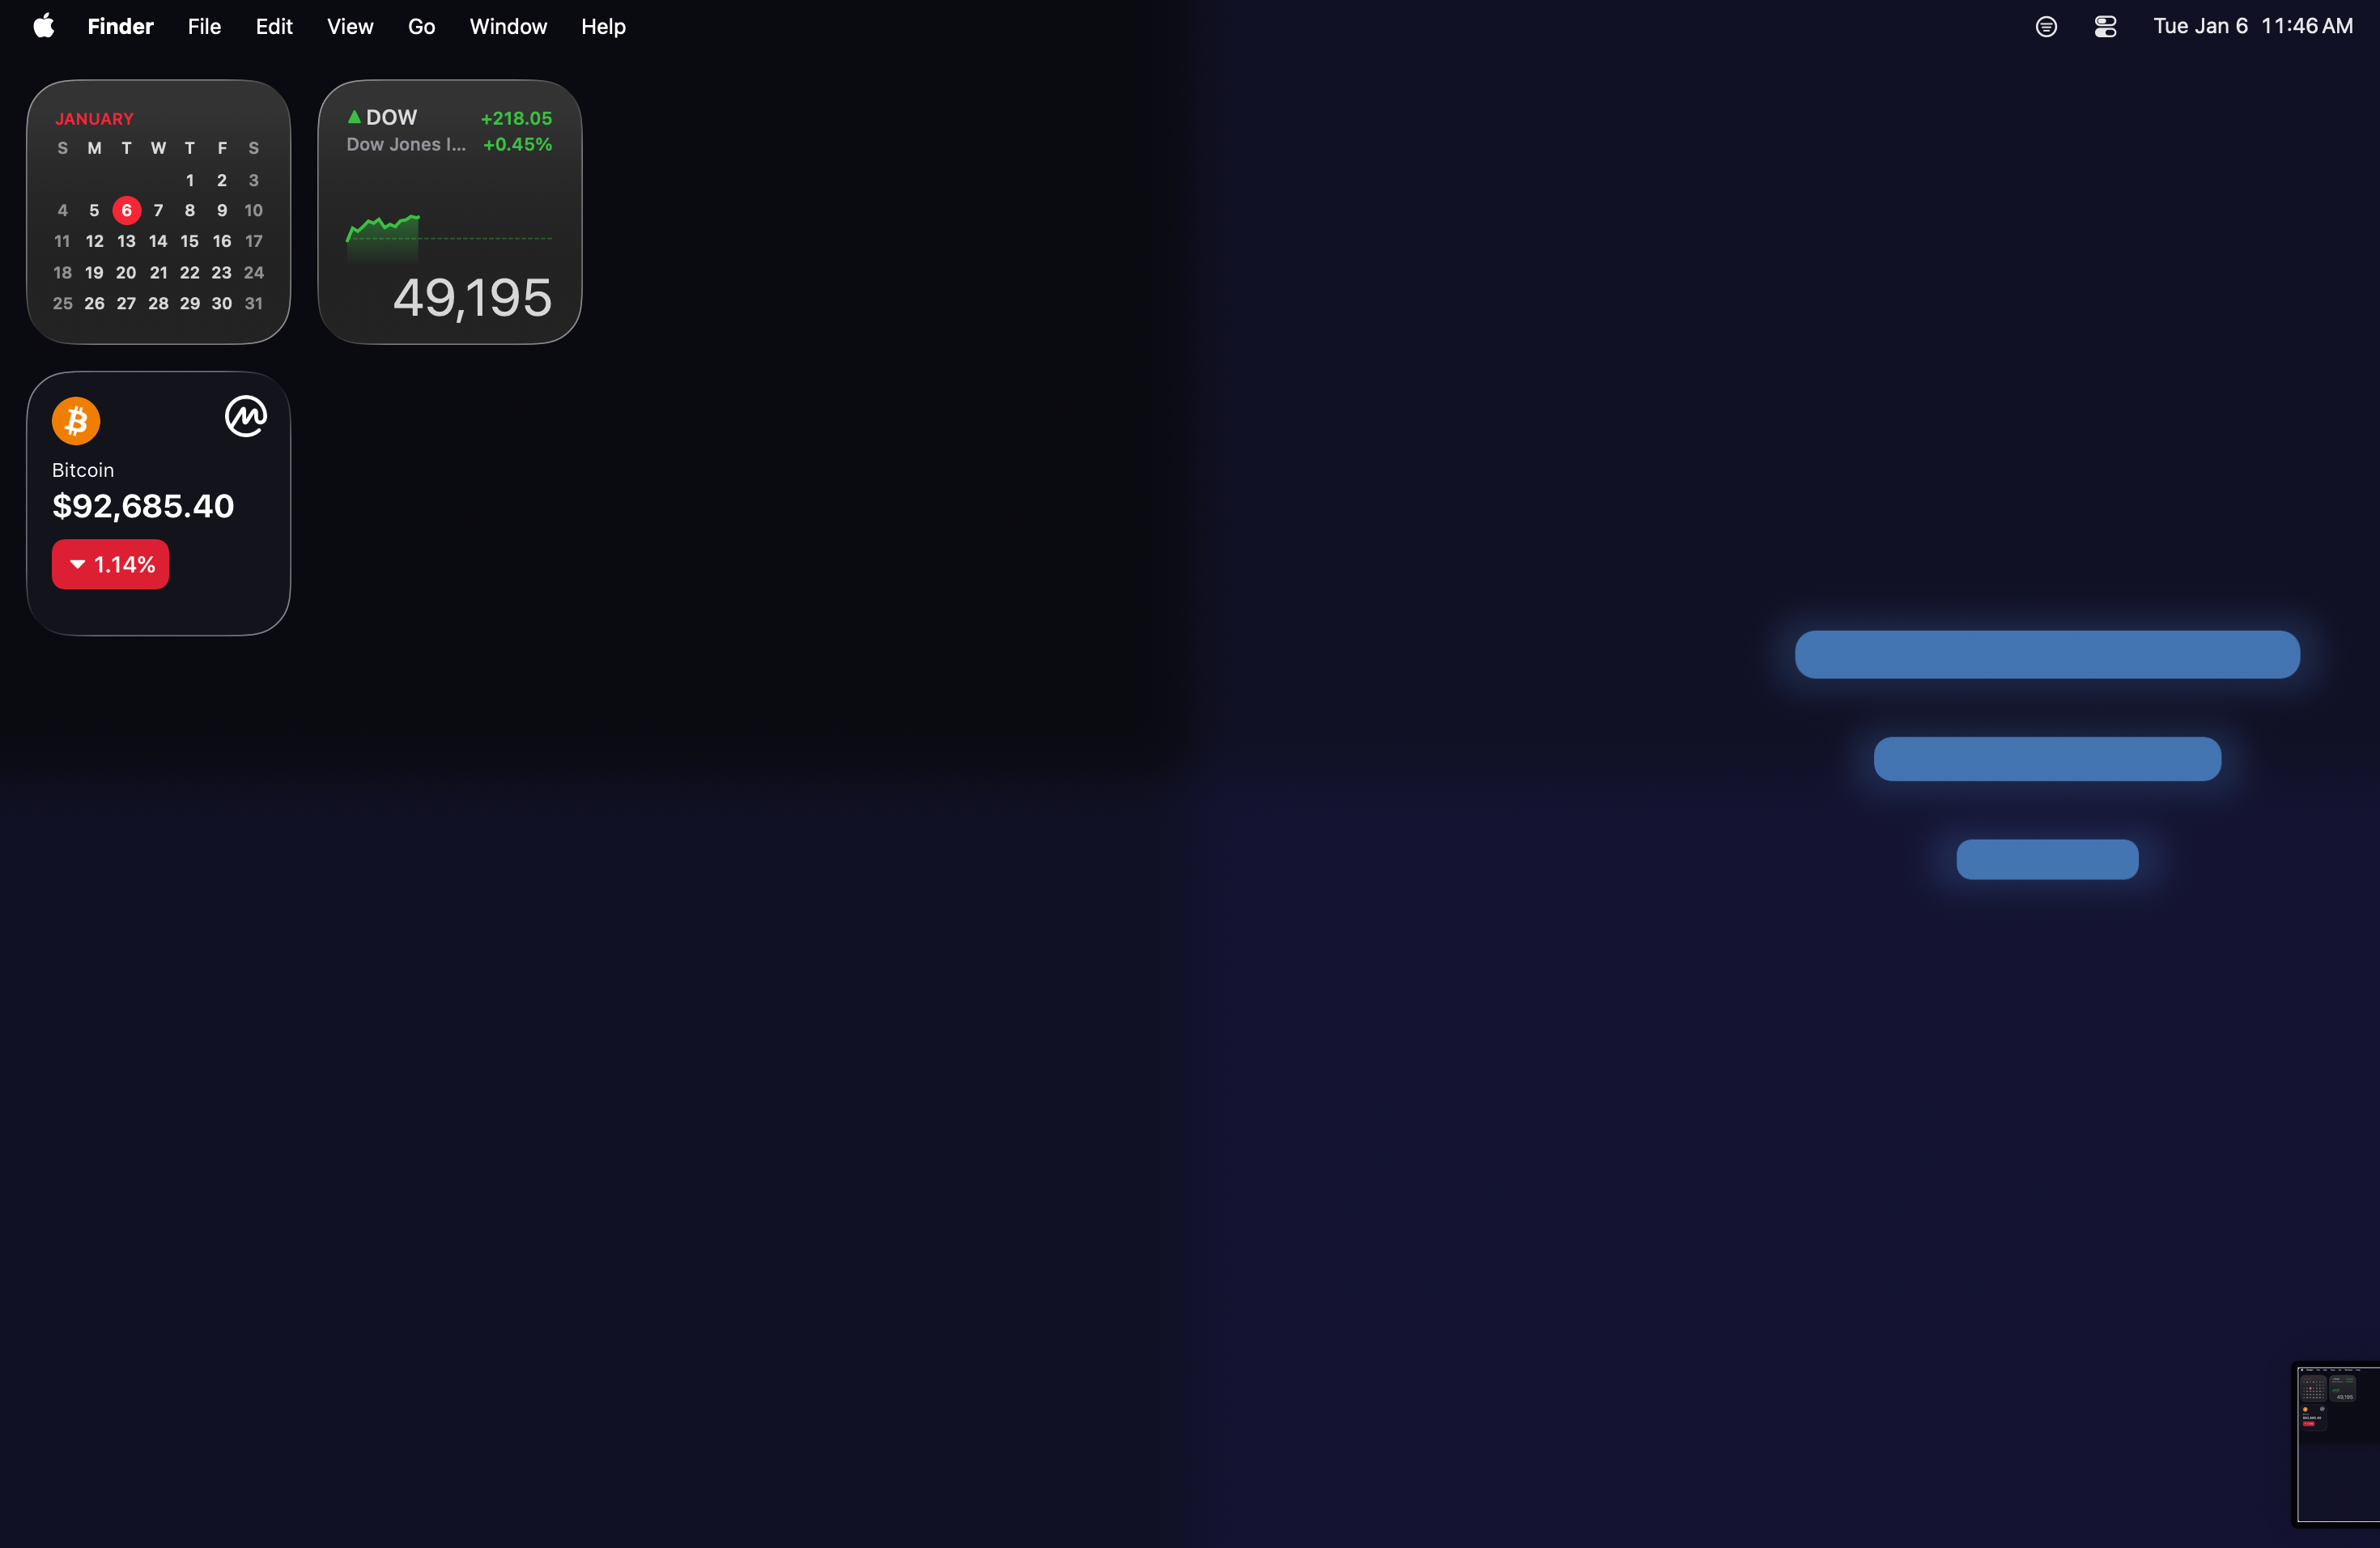
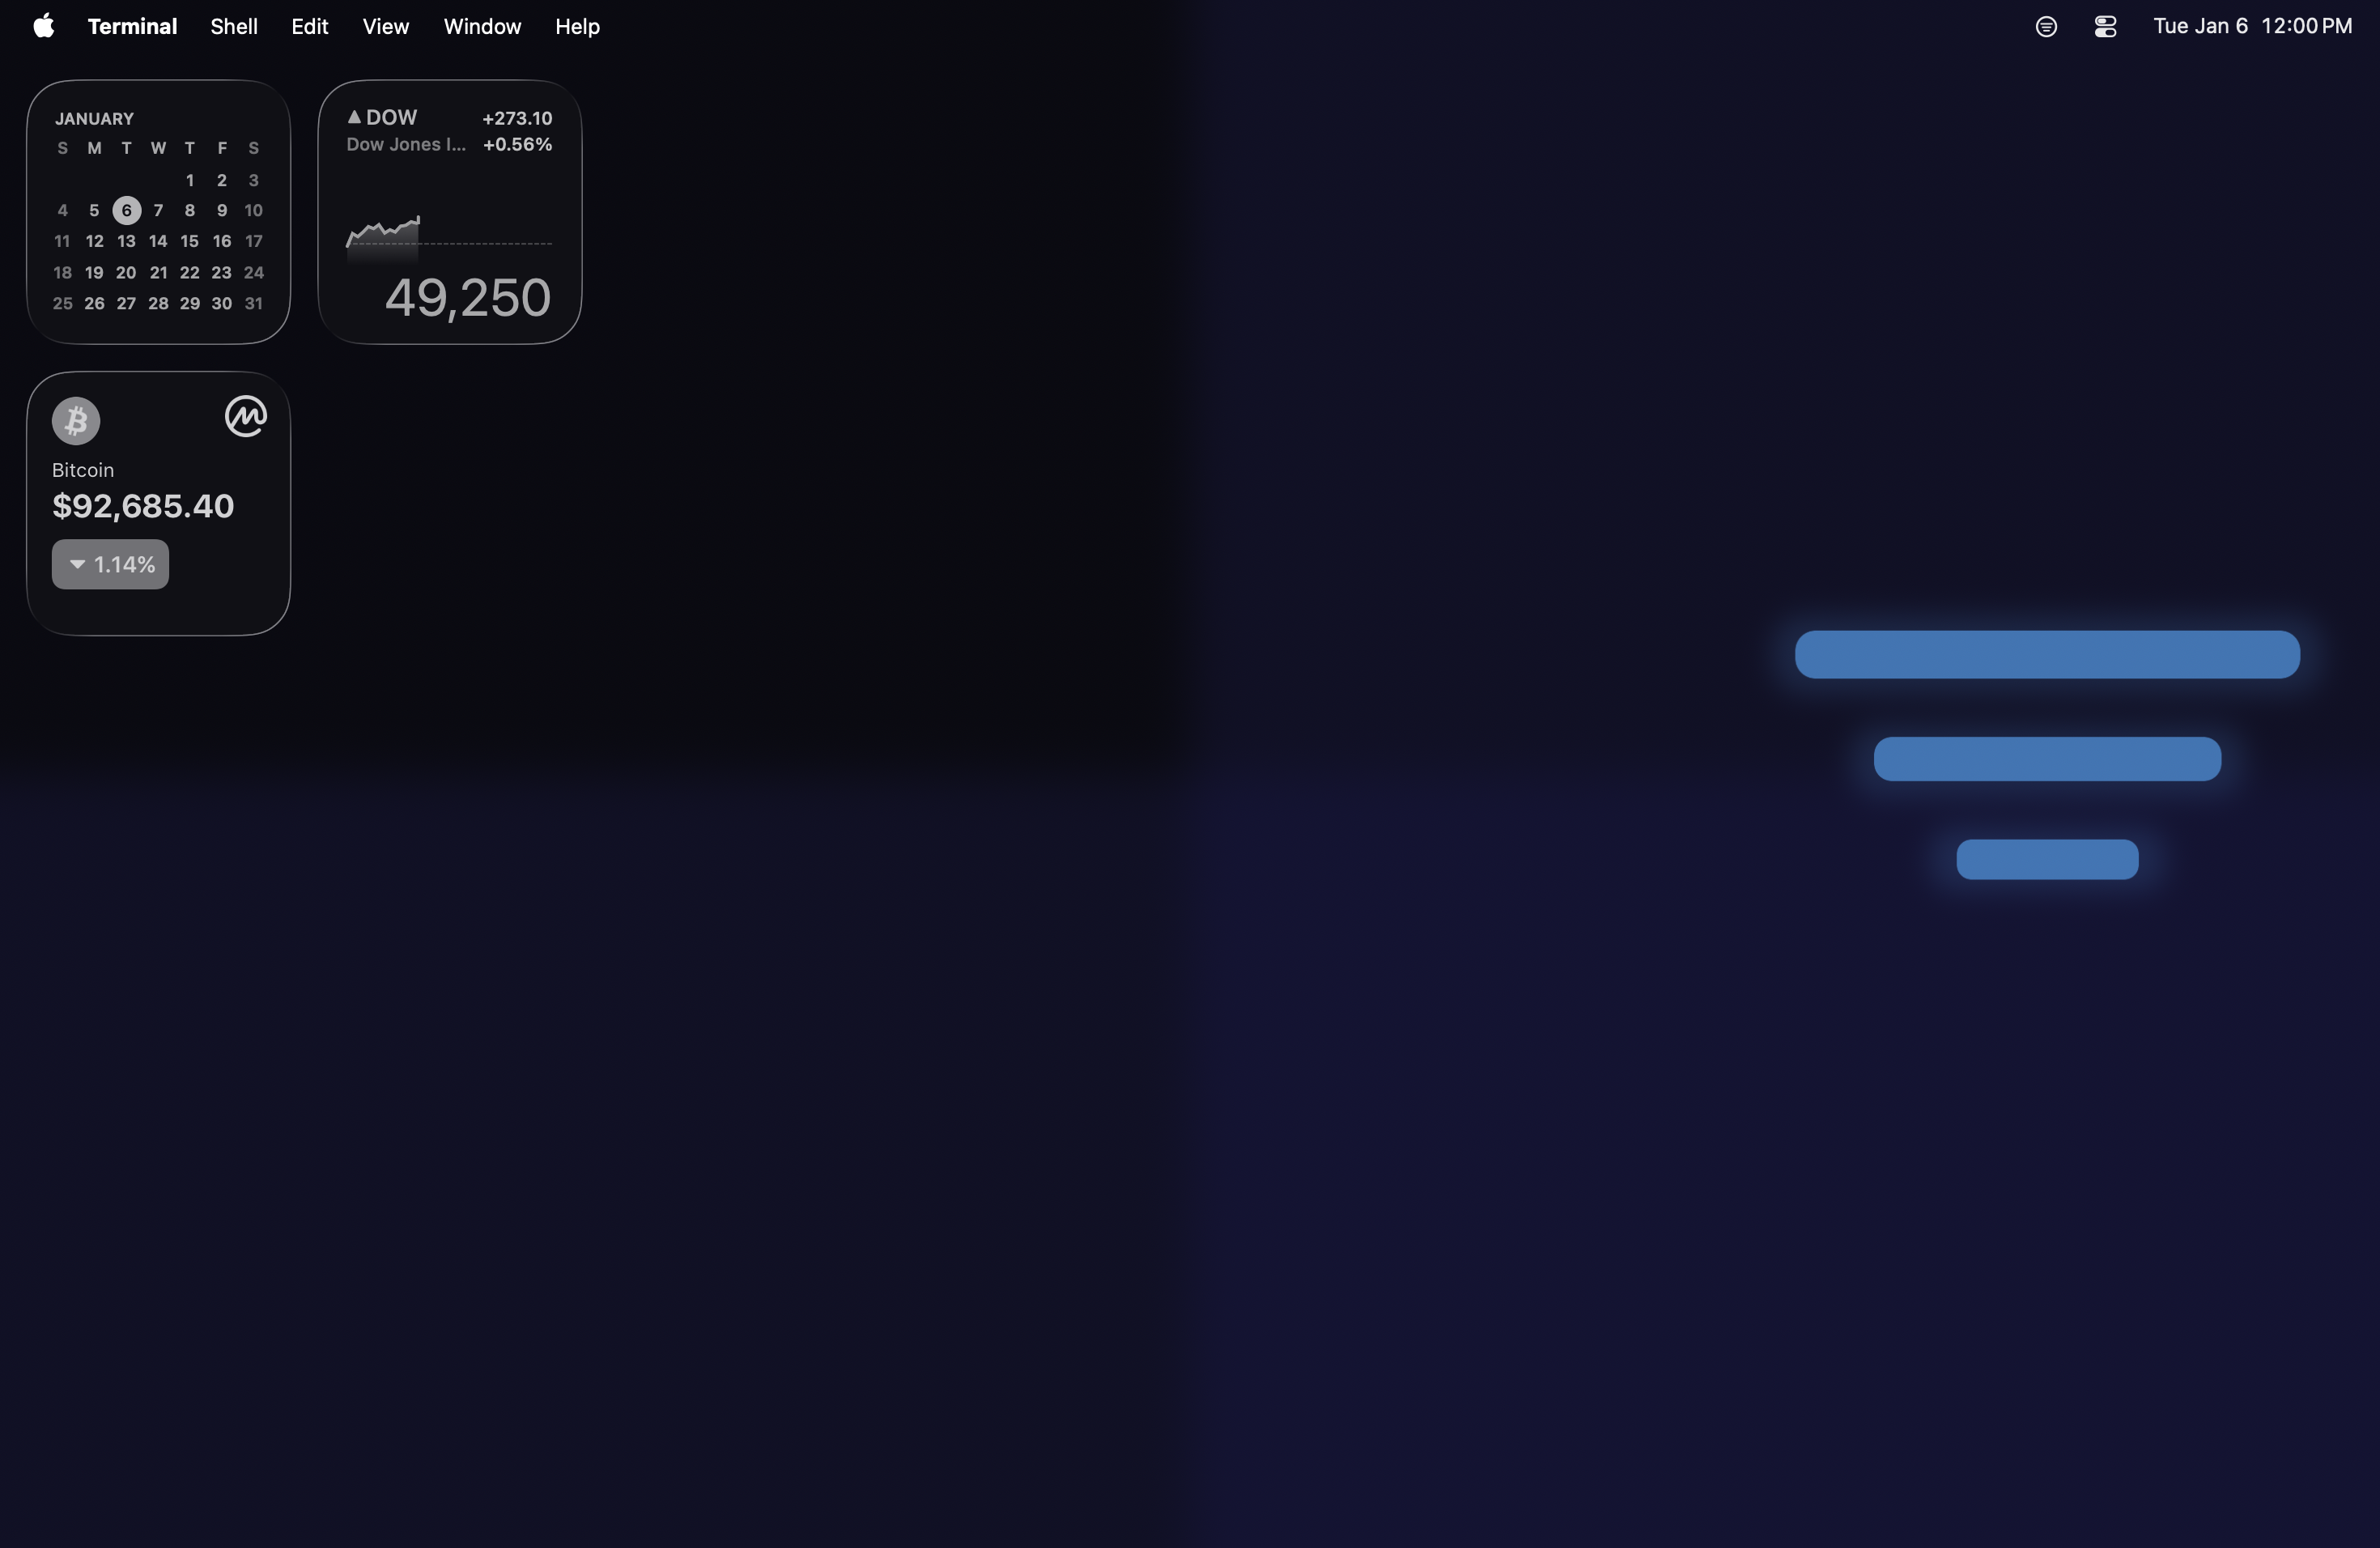
docs: Add before/after screenshots and Homebrew note
- Add screenshot-2.png showing clean menu bar (after)
- Add settings-about.png showing privacy badge
- Update Homebrew line encouraging stars to help approval

🤖 Generated with [Claude Code](https://claude.com/claude-code)

diff --git a/README.md b/README.md
@@ -18,7 +18,7 @@ Free. Private. No account needed.
 
 **[Download SaneBar](https://github.com/stephanjoseph/SaneBar/releases/download/v1.0.0/SaneBar-1.0.0.dmg)** (macOS 14+)
 
-Or use Homebrew: `brew install --cask sanebar` *(coming soon)*
+Or use Homebrew: `brew install --cask sanebar` *(coming soon - help approval by starring this repo!)*
 
 ---
 